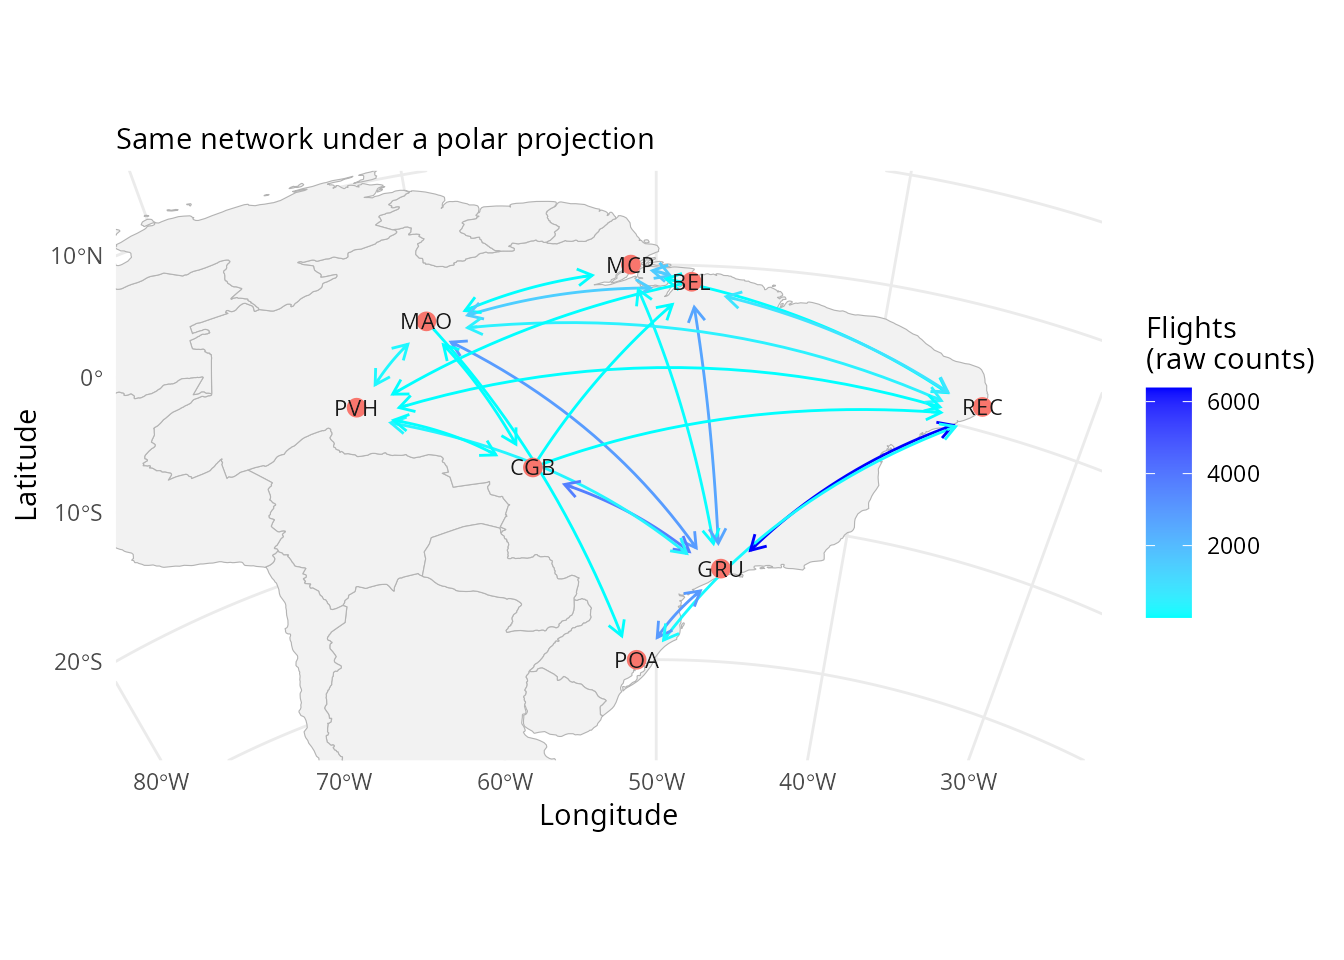
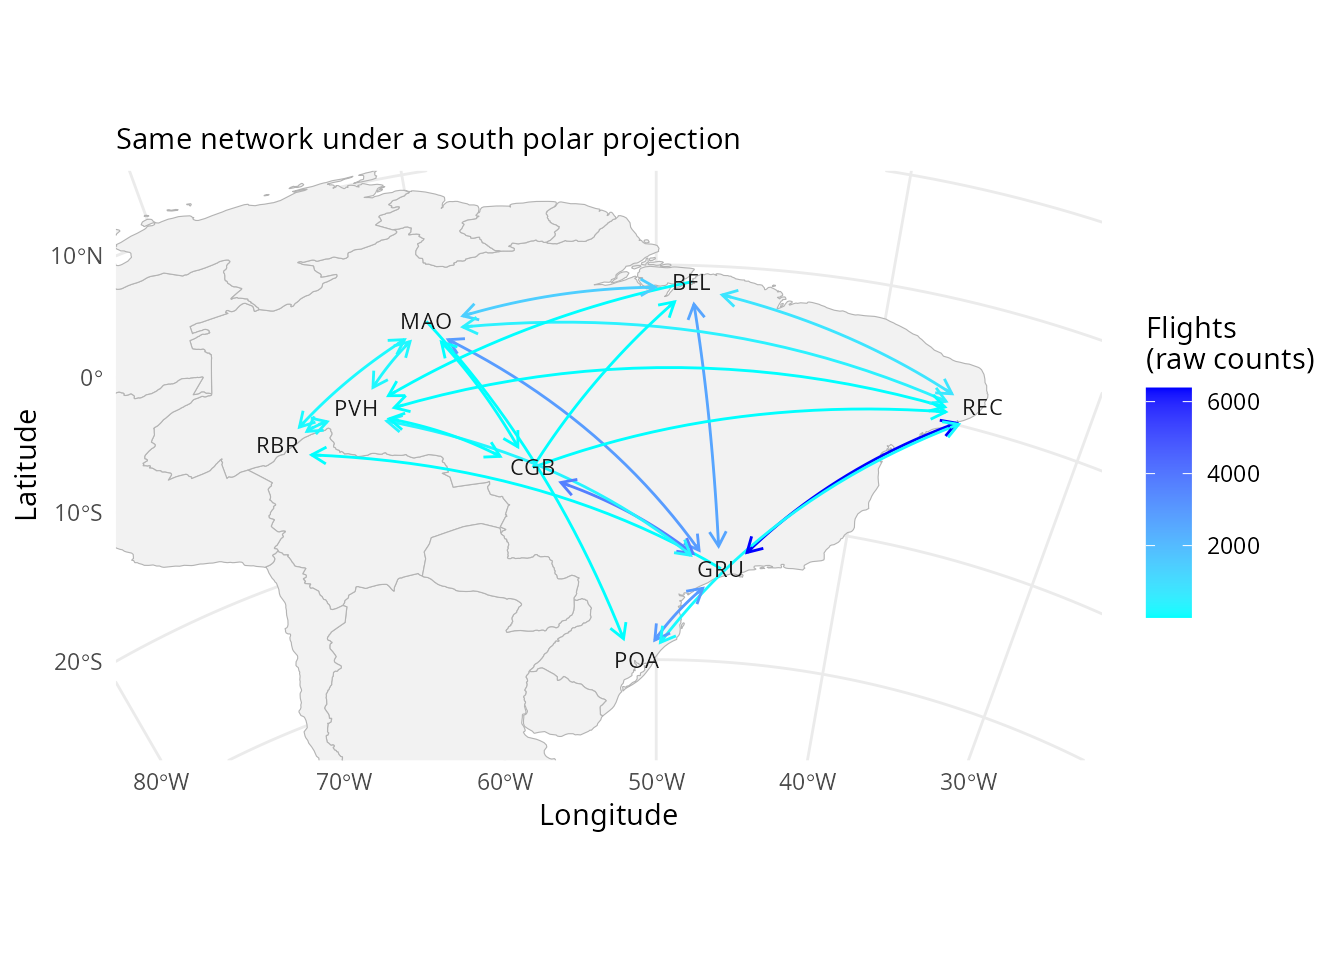
regular maintenance

diff --git a/docs/articles/interoperability.html b/docs/articles/interoperability.html
@@ -98,7 +98,7 @@
                         <h4 data-toc-skip class="author">Sysbiolab
 Team</h4>
             
-            <h4 data-toc-skip class="date">2026-07-31</h4>
+            <h4 data-toc-skip class="date">2026-08-01</h4>
       
       <small class="dont-index">Source: <a href="https://github.com/sysbiolab/RGraphSpace/blob/HEAD/vignettes/articles/interoperability.Rmd" class="external-link"><code>vignettes/articles/interoperability.Rmd</code></a></small>
       <div class="d-none name"><code>interoperability.Rmd</code></div>
@@ -340,7 +340,8 @@ edge has endpoints in the node table.</p>
 <span></span>
 <span><span class="co"># Count departures</span></span>
 <span><span class="va">active_airports</span><span class="op">$</span><span class="va">departures</span> <span class="op">&lt;-</span> <span class="fu"><a href="https://rdrr.io/r/base/tapply.html" class="external-link">tapply</a></span><span class="op">(</span><span class="va">flight_counts</span><span class="op">$</span><span class="va">counts</span>,</span>
-<span>  <span class="va">flight_counts</span><span class="op">$</span><span class="va">sg_iata_origem</span>, <span class="va">sum</span><span class="op">)</span><span class="op">[</span><span class="va">active_airports</span><span class="op">$</span><span class="va">IATA</span><span class="op">]</span></span></code></pre></div>
+<span>  <span class="va">flight_counts</span><span class="op">$</span><span class="va">sg_iata_origem</span>, <span class="va">sum</span><span class="op">)</span><span class="op">[</span><span class="va">active_airports</span><span class="op">$</span><span class="va">IATA</span><span class="op">]</span> <span class="op">|&gt;</span></span>
+<span>  <span class="fu">dplyr</span><span class="fu">::</span><span class="fu"><a href="https://dplyr.tidyverse.org/reference/coalesce.html" class="external-link">coalesce</a></span><span class="op">(</span><span class="fl">0L</span><span class="op">)</span></span></code></pre></div>
 </div>
 <div class="section level3">
 <h3 id="building-the-graph">Building the graph<a class="anchor" aria-label="anchor" href="#building-the-graph"></a>
@@ -414,35 +415,33 @@ endpoints.</p>
 <div class="section level3">
 <h3 id="a-more-extreme-projection">A more extreme projection<a class="anchor" aria-label="anchor" href="#a-more-extreme-projection"></a>
 </h3>
-<p>The projection used above bends the space gently, so the effect on
-edges is subtle. It becomes unmistakable under a stronger projection.
-Here the same network is viewed from the south pole, where meridians
-radiate outward rather than merely converging, and a subset of long-haul
-routes is used so that individual edges stay legible.</p>
+<p>The projection used above bends the space only gently, so its effect
+on edges is subtle. It becomes much more apparent under an extreme
+projection. Here the same network is viewed from the south pole, where
+meridians radiate outward rather than merely converging, and we use a
+subset of long-haul routes so that individual edges stay legible.</p>
 <div class="sourceCode" id="cb11"><pre class="downlit sourceCode r">
 <code class="sourceCode R"><span><span class="co"># Reference map: all countries, for a hemisphere-wide view</span></span>
 <span><span class="va">world_sf</span> <span class="op">&lt;-</span> <span class="fu"><a href="https://r-spatial.github.io/sf/reference/st_as_sf.html" class="external-link">st_as_sf</a></span><span class="op">(</span><span class="fu"><a href="https://rdrr.io/pkg/maps/man/map.html" class="external-link">map</a></span><span class="op">(</span><span class="st">"world"</span>, fill <span class="op">=</span> <span class="cn">TRUE</span>, plot <span class="op">=</span> <span class="cn">FALSE</span><span class="op">)</span><span class="op">)</span></span>
 <span></span>
 <span><span class="co"># A few widely separated airports, chosen to span longitude</span></span>
-<span><span class="va">hubs</span> <span class="op">&lt;-</span> <span class="fu"><a href="https://rdrr.io/r/base/c.html" class="external-link">c</a></span><span class="op">(</span><span class="st">"GRU"</span>, <span class="st">"MAO"</span>, <span class="st">"BEL"</span>, <span class="st">"REC"</span>, <span class="st">"POA"</span>, <span class="st">"CGB"</span>, <span class="st">"PVH"</span>, <span class="st">"MCP"</span><span class="op">)</span></span>
+<span><span class="va">hubs</span> <span class="op">&lt;-</span> <span class="fu"><a href="https://rdrr.io/r/base/c.html" class="external-link">c</a></span><span class="op">(</span><span class="st">"GRU"</span>, <span class="st">"MAO"</span>, <span class="st">"BEL"</span>, <span class="st">"REC"</span>, <span class="st">"POA"</span>, <span class="st">"CGB"</span>, <span class="st">"PVH"</span>, <span class="st">"RBR"</span><span class="op">)</span></span>
 <span></span>
 <span><span class="co"># Subset the 'gs_flight' object</span></span>
 <span><span class="va">gs_hubs</span> <span class="op">&lt;-</span> <span class="va">gs_flight</span><span class="op">[</span><span class="va">gs_flight</span><span class="op">$</span><span class="va">name</span> <span class="op"><a href="https://rdrr.io/r/base/match.html" class="external-link">%in%</a></span> <span class="va">hubs</span>, <span class="op">]</span></span></code></pre></div>
 <div class="sourceCode" id="cb12"><pre class="downlit sourceCode r">
 <code class="sourceCode R"><span><span class="fu"><a href="https://ggplot2.tidyverse.org/reference/ggplot.html" class="external-link">ggplot</a></span><span class="op">(</span>data <span class="op">=</span> <span class="va">gs_hubs</span><span class="op">)</span> <span class="op">+</span></span>
 <span>  <span class="fu"><a href="https://ggplot2.tidyverse.org/reference/ggsf.html" class="external-link">geom_sf</a></span><span class="op">(</span>data <span class="op">=</span> <span class="va">world_sf</span>, fill <span class="op">=</span> <span class="st">"grey95"</span>, color <span class="op">=</span> <span class="st">"grey70"</span><span class="op">)</span> <span class="op">+</span></span>
-<span>  <span class="fu"><a href="../reference/geom_edgespace.html">geom_edgespace</a></span><span class="op">(</span><span class="fu"><a href="https://ggplot2.tidyverse.org/reference/aes.html" class="external-link">aes</a></span><span class="op">(</span>colour <span class="op">=</span> <span class="va">counts</span><span class="op">)</span>, </span>
-<span>    arrow_offset <span class="op">=</span> <span class="fl">0.03</span>, arrow_size <span class="op">=</span> <span class="fl">1</span><span class="op">)</span> <span class="op">+</span></span>
-<span>  <span class="fu"><a href="../reference/geom_nodespace.html">geom_nodespace</a></span><span class="op">(</span><span class="fu"><a href="https://ggplot2.tidyverse.org/reference/aes.html" class="external-link">aes</a></span><span class="op">(</span>label <span class="op">=</span> <span class="va">name</span><span class="op">)</span>, size <span class="op">=</span> <span class="fl">2</span>, </span>
-<span>    fill <span class="op">=</span> <span class="st">"#F8766D"</span>, colour <span class="op">=</span> <span class="cn">NA</span><span class="op">)</span> <span class="op">+</span></span>
+<span>  <span class="fu"><a href="../reference/geom_edgespace.html">geom_edgespace</a></span><span class="op">(</span><span class="fu"><a href="https://ggplot2.tidyverse.org/reference/aes.html" class="external-link">aes</a></span><span class="op">(</span>colour <span class="op">=</span> <span class="va">counts</span><span class="op">)</span>, arrow_size <span class="op">=</span> <span class="fl">1</span><span class="op">)</span> <span class="op">+</span></span>
+<span>  <span class="fu"><a href="../reference/geom_nodespace.html">geom_nodespace</a></span><span class="op">(</span><span class="fu"><a href="https://ggplot2.tidyverse.org/reference/aes.html" class="external-link">aes</a></span><span class="op">(</span>label <span class="op">=</span> <span class="va">name</span><span class="op">)</span>, fill <span class="op">=</span> <span class="cn">NA</span>, colour <span class="op">=</span> <span class="cn">NA</span><span class="op">)</span> <span class="op">+</span></span>
 <span>  <span class="fu"><a href="https://ggplot2.tidyverse.org/reference/scale_colour_continuous.html" class="external-link">scale_colour_continuous</a></span><span class="op">(</span>palette <span class="op">=</span> <span class="fu"><a href="https://rdrr.io/r/base/c.html" class="external-link">c</a></span><span class="op">(</span><span class="st">"cyan"</span>, <span class="st">"blue"</span><span class="op">)</span><span class="op">)</span> <span class="op">+</span></span>
-<span>  <span class="fu"><a href="https://ggplot2.tidyverse.org/reference/labs.html" class="external-link">labs</a></span><span class="op">(</span>subtitle <span class="op">=</span> <span class="st">"Same network under a polar projection"</span>,</span>
+<span>  <span class="fu"><a href="https://ggplot2.tidyverse.org/reference/labs.html" class="external-link">labs</a></span><span class="op">(</span>subtitle <span class="op">=</span> <span class="st">"Same network under a south polar projection"</span>,</span>
 <span>    colour <span class="op">=</span> <span class="st">"Flights\n(raw counts)"</span>, </span>
 <span>    y <span class="op">=</span> <span class="st">"Latitude"</span>, x <span class="op">=</span> <span class="st">"Longitude"</span><span class="op">)</span> <span class="op">+</span></span>
 <span>  <span class="fu"><a href="../reference/theme_gspace.html">theme_gspace_legend</a></span><span class="op">(</span><span class="op">)</span> <span class="op">+</span> <span class="fu"><a href="https://ggplot2.tidyverse.org/reference/ggtheme.html" class="external-link">theme_minimal</a></span><span class="op">(</span><span class="op">)</span> <span class="op">+</span></span>
 <span>  <span class="fu"><a href="https://ggplot2.tidyverse.org/reference/ggsf.html" class="external-link">coord_sf</a></span><span class="op">(</span>crs <span class="op">=</span> <span class="st">"+proj=laea +lat_0=-90 +lon_0=-50"</span>, </span>
-<span>    default_crs <span class="op">=</span> <span class="fl">4326</span>,</span>
-<span>    xlim <span class="op">=</span> <span class="fu"><a href="https://rdrr.io/r/base/c.html" class="external-link">c</a></span><span class="op">(</span><span class="op">-</span><span class="fl">75</span>, <span class="op">-</span><span class="fl">30</span><span class="op">)</span>, ylim <span class="op">=</span> <span class="fu"><a href="https://rdrr.io/r/base/c.html" class="external-link">c</a></span><span class="op">(</span><span class="op">-</span><span class="fl">35</span>, <span class="fl">6</span><span class="op">)</span><span class="op">)</span></span></code></pre></div>
+<span>    xlim <span class="op">=</span> <span class="fu"><a href="https://rdrr.io/r/base/c.html" class="external-link">c</a></span><span class="op">(</span><span class="op">-</span><span class="fl">75</span>, <span class="op">-</span><span class="fl">30</span><span class="op">)</span>, ylim <span class="op">=</span> <span class="fu"><a href="https://rdrr.io/r/base/c.html" class="external-link">c</a></span><span class="op">(</span><span class="op">-</span><span class="fl">35</span>, <span class="fl">6</span><span class="op">)</span>,</span>
+<span>    default_crs <span class="op">=</span> <span class="fl">4326</span><span class="op">)</span></span></code></pre></div>
 <p><img src="interoperability_files/figure-html/Interoperability%20sf%20-%208-1.png" class="r-plt" alt="" width="672" style="display: block; margin: auto;"></p>
 <p>A complementary version of this vignette is available in the <a href="https://github.com/flaviogckessler/PreprocessingAviationData" class="external-link"><em>PreprocessingAviationData</em></a>
 repository.</p>
